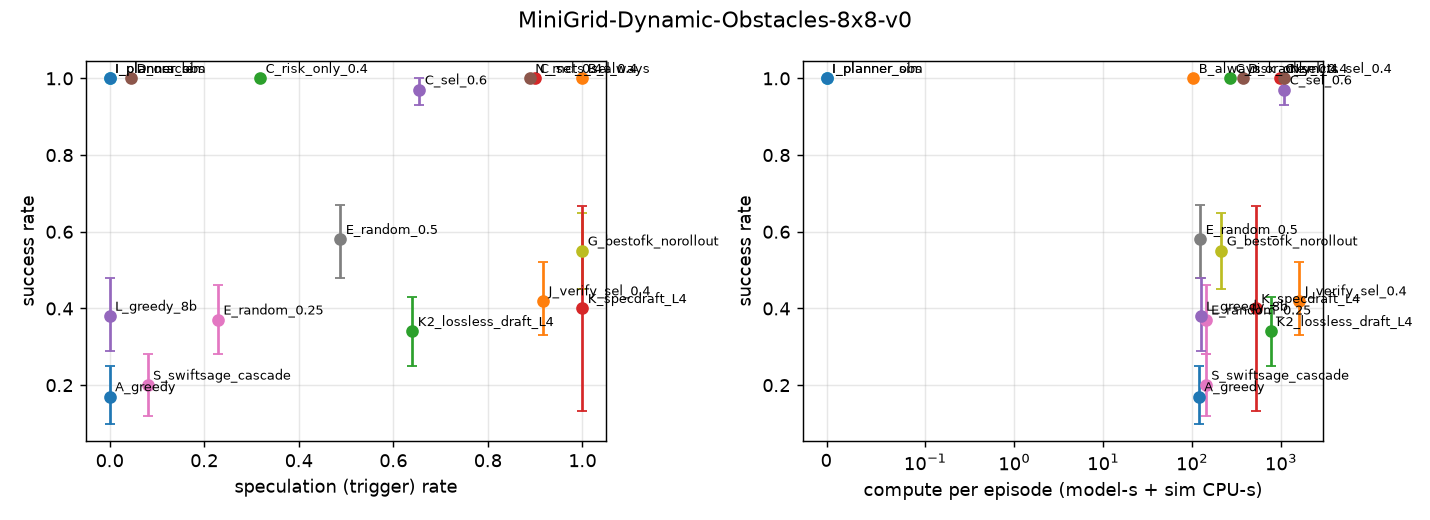
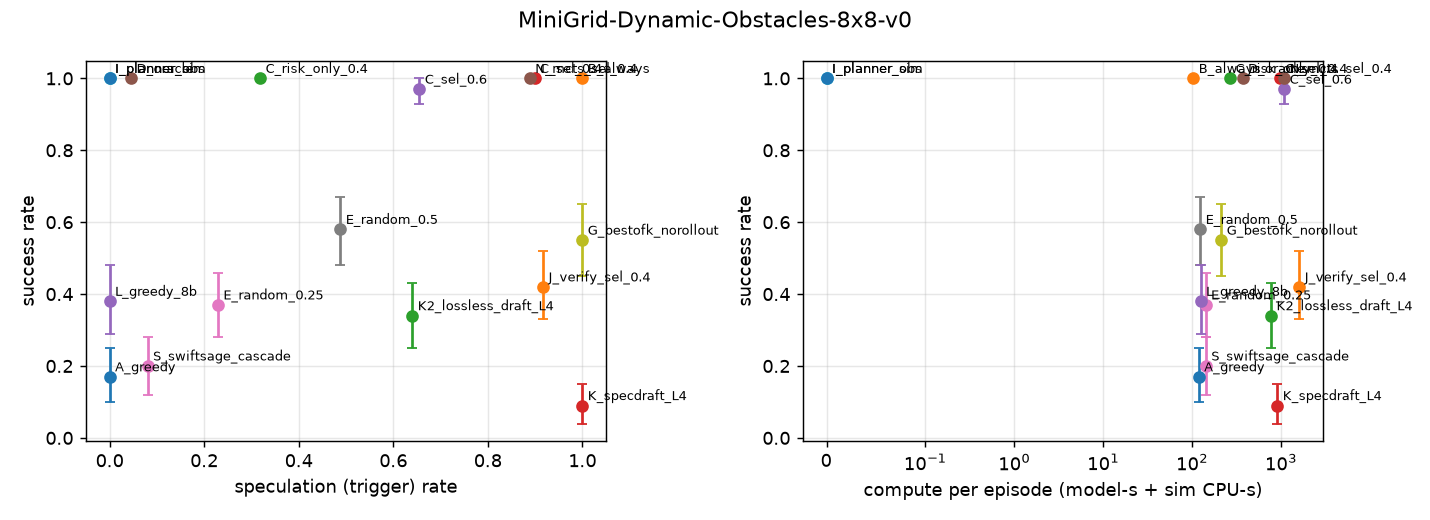
Final results: K at n=100; extended test data; build covers all runs (#2)

diff --git a/report/data/test_dyn8/summary.md b/report/data/test_dyn8/summary.md
@@ -1,4 +1,4 @@
-Episodes with runner errors (excluded, listed in episodes.jsonl): 0; duplicate (method, seed) episodes skipped: 42
+Episodes with runner errors (excluded, listed in episodes.jsonl): 0; duplicate (method, seed) episodes skipped: 57
 
 | env | method | n | success [95% CI] | collision | steps | trigger rate | LLM calls/ep | model-s/ep | sim CPU-s/ep | episode s | lat p50/p95 (s) |
 |---|---|---|---|---|---|---|---|---|---|---|---|
@@ -15,7 +15,7 @@ Episodes with runner errors (excluded, listed in episodes.jsonl): 0; duplicate (
 | Dynamic-Obstacles-8x8-v0 | I_planner_sim | 100 | 1.00 [1.00, 1.00] | 0.00 | 18.7 | 0.00 | 0.0 | 0.0 | 0.00 | 0.0 | 0.00/0.00 |
 | Dynamic-Obstacles-8x8-v0 | J_verify_sel_0.4 | 100 | 0.42 [0.33, 0.52] | 0.58 | 32.8 | 0.92 | 161.3 | 1607.5 | 0.00 | 652.9 | 16.50/31.69 |
 | Dynamic-Obstacles-8x8-v0 | K2_lossless_draft_L4 | 100 | 0.34 [0.25, 0.43] | 0.66 | 27.8 | 0.64 | 73.7 | 773.3 | 0.00 | 263.2 | 14.20/17.50 |
-| Dynamic-Obstacles-8x8-v0 | K_specdraft_L4 | 15 | 0.40 [0.13, 0.67] | 0.60 | 91.8 | 1.00 | 183.6 | 520.2 | 0.00 | 506.1 | 5.58/7.67 |
+| Dynamic-Obstacles-8x8-v0 | K_specdraft_L4 | 100 | 0.09 [0.04, 0.15] | 0.22 | 213.9 | 1.00 | 427.7 | 909.4 | 0.00 | 809.3 | 4.29/4.90 |
 | Dynamic-Obstacles-8x8-v0 | L_greedy_8b | 100 | 0.38 [0.29, 0.48] | 0.62 | 29.1 | 0.00 | 29.1 | 124.7 | 0.00 | 121.8 | 4.72/5.77 |
 | Dynamic-Obstacles-8x8-v0 | N_mcts_sel_0.4 | 100 | 1.00 [1.00, 1.00] | 0.00 | 24.2 | 0.89 | 96.6 | 1080.1 | 3.26 | 547.8 | 24.23/27.29 |
 | Dynamic-Obstacles-8x8-v0 | S_swiftsage_cascade | 100 | 0.20 [0.12, 0.28] | 0.80 | 21.3 | 0.08 | 24.1 | 142.7 | 0.00 | 139.0 | 6.59/10.89 |
@@ -48,8 +48,8 @@ Paired differences on common seeds (method minus reference; 95% bootstrap CI; bo
 | Dynamic-Obstacles-8x8-v0 | J_verify_sel_0.4 | B_always | -0.580 [-0.680, -0.480] p=0.000 | +1504.351 [+1309.872, +1704.759] p=0.000 | +568.848 [+476.067, +665.572] p=0.000 |
 | Dynamic-Obstacles-8x8-v0 | K2_lossless_draft_L4 | A_greedy | +0.170 [+0.050, +0.290] p=0.007 | +654.607 [+539.577, +773.744] p=0.000 | +151.051 [+109.670, +193.537] p=0.000 |
 | Dynamic-Obstacles-8x8-v0 | K2_lossless_draft_L4 | B_always | -0.660 [-0.750, -0.570] p=0.000 | +670.156 [+558.904, +785.643] p=0.000 | +179.145 [+142.416, +217.211] p=0.000 |
-| Dynamic-Obstacles-8x8-v0 | K_specdraft_L4 | A_greedy | +0.333 [+0.000, +0.600] p=0.051 | +434.608 [+261.480, +598.803] p=0.000 | +421.200 [+250.816, +581.868] p=0.000 |
-| Dynamic-Obstacles-8x8-v0 | K_specdraft_L4 | B_always | -0.600 [-0.867, -0.333] p=0.000 | +437.917 [+252.910, +615.476] p=0.000 | +439.244 [+256.026, +612.301] p=0.000 |
+| Dynamic-Obstacles-8x8-v0 | K_specdraft_L4 | A_greedy | -0.080 [-0.170, +0.010] p=0.092 | +790.673 [+721.174, +856.680] p=0.000 | +697.130 [+634.449, +757.381] p=0.000 |
+| Dynamic-Obstacles-8x8-v0 | K_specdraft_L4 | B_always | -0.910 [-0.960, -0.850] p=0.000 | +806.223 [+739.768, +869.076] p=0.000 | +725.225 [+666.168, +782.824] p=0.000 |
 | Dynamic-Obstacles-8x8-v0 | L_greedy_8b | A_greedy | +0.210 [+0.110, +0.310] p=0.000 | +6.015 [-18.667, +31.402] p=0.635 | +9.633 [-13.552, +33.719] p=0.429 |
 | Dynamic-Obstacles-8x8-v0 | L_greedy_8b | B_always | -0.620 [-0.710, -0.520] p=0.000 | +21.564 [+2.393, +41.502] p=0.032 | +37.727 [+18.709, +57.314] p=0.000 |
 | Dynamic-Obstacles-8x8-v0 | N_mcts_sel_0.4 | A_greedy | +0.830 [+0.750, +0.900] p=0.000 | +964.724 [+898.799, +1033.329] p=0.000 | +435.593 [+398.303, +473.874] p=0.000 |

diff --git a/report/REPORT.md b/report/REPORT.md
@@ -2,7 +2,7 @@
 
 **Scope.** All numbers come from runs on GT Futurama GPUs (H200 and L4) with qwen3:4b / qwen3:8b served by Ollama 0.12.6 (`think: false`). Run directories, manifests, and the scripts that produced every table are listed in [Reproduce](#reproduce). Methods and definitions are in [METHODS.md](METHODS.md). Experiment 2 (graph-based predictive execution) is reported separately in [experiments/speculative_graph/REPORT.md](../experiments/speculative_graph/REPORT.md).
 
-**Held-out test (§2)** uses seeds 10000–10099. Method definitions were frozen in commit `d4b646d` before any test episode ran. The run was split across three GPU jobs for time, with identical definitions, and episodes were deduplicated by (method, seed). §1 and §3–§6 come from validation seeds 1000–1049, which informed the choices.
+**Held-out test (§2)** uses seeds 10000–10099. Method definitions were frozen in commit `d4b646d` before any test episode ran. The run was split across GPU jobs for time, with identical definitions, and episodes were deduplicated by (method, seed). §1 and §3–§6 come from validation seeds 1000–1049, which informed the choices.
 
 ## TL;DR
 1. **Decision speculation works, and *where* you trigger it matters a lot.** Held-out test (300 seeds): risk-triggered speculation reaches 1.00 success at a 30% trigger rate, vs 0.33 for random triggering at a matched rate (paired +0.67 [0.62, 0.73], p<0.001), vs 0.17 for 4b greedy and 0.41 for 8b greedy. **But the risk trigger is task-specific.** On DoorKey it never fires (0.00), while always-on rollouts reach 0.69. Validation numbers:
@@ -95,7 +95,7 @@ Notes:
 | G best-of-K, no rollouts | 0.55 [0.45, 0.65] | 0.45 | 39.9 | 1.00 | 39.9 | 213.3 | 0 |
 | J 4b draft → 8b verify on trigger | 0.42 [0.33, 0.52] | 0.58 | 32.8 | 0.92 | 161.3 | 1607.5 | 0 |
 | K2 lossless speculative drafting, L=4 | 0.34 [0.25, 0.43] | 0.66 | 27.8 | 0.64 | 73.7 | 773.3 | 0 |
-| K plan drafting, self-reported (n=15, stopped early) | 0.40 [0.13, 0.67] | 0.60 | 91.8 | 1.00 | 183.6 | 520.2 | 0 |
+| K plan drafting, self-reported (n=100) | 0.15 [0.08, 0.23] | 0.29 | 191.3 | 1.00 | 382.7 | 830.6 | 0 |
 | N UCT-MCTS on trigger | 1.00 | 0 | 24.2 | 0.89 | 96.6 | 1080.1 | 3.26 |
 | S SwiftSage fast/slow trigger → 8b | 0.20 [0.12, 0.28] | 0.80 | 21.3 | 0.08 | 24.1 | 142.7 | 0 |
 | I planner, SimBFS (privileged) / ObsBFS (observation-only) | 1.00 / 1.00 | 0 | 18.7 / 55.3 | — | 0 | 0 | — |
